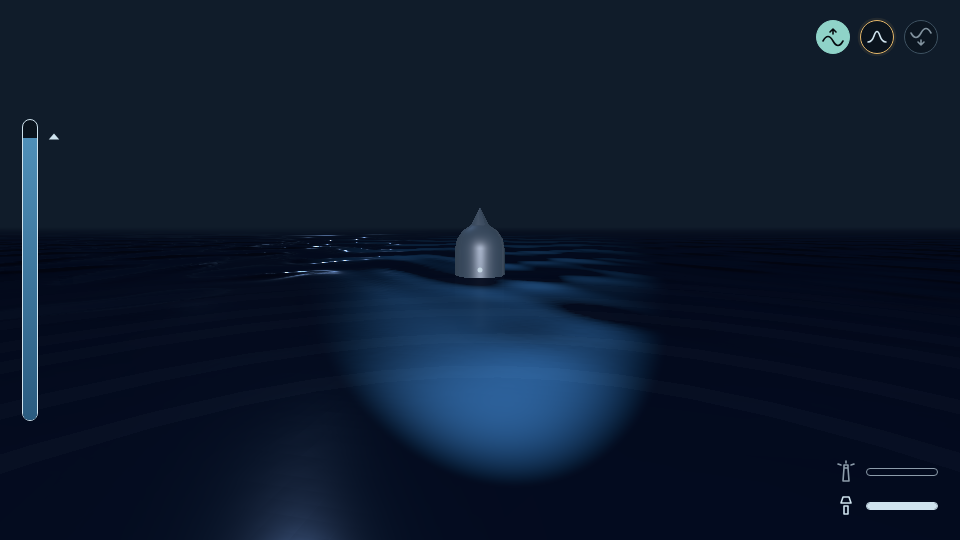
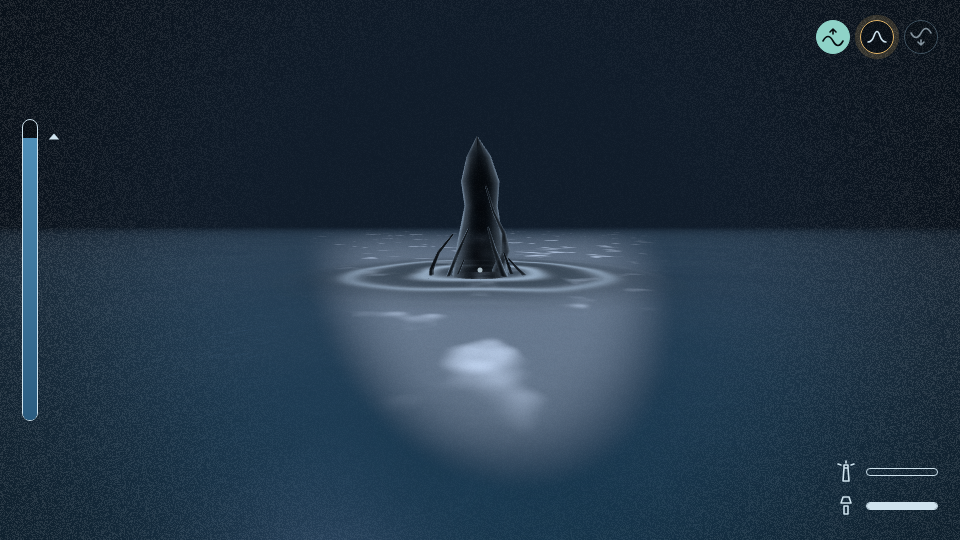
T-030 livrée (ambiance visuelle stylisée, qualité, mesures), rapport archivé ; revue de pôle
Claude-Session: https://claude.ai/code/session_01THVCaC8ywcT3SSRN4VzkzL

diff --git a/docs/tech/revues/REMISE_T-030.md b/docs/tech/revues/REMISE_T-030.md
@@ -1,0 +1,42 @@
+# Rapport de remise : T-030 (résumé archivé par la Coordination)
+
+> Rendu par `graphics-programmer` le 2026-11-24. Archivé pour la revue de pôle et la Boss.
+
+- **Tests** : `npm run all` vert.
+  - 60 tests unitaires (4 nouveaux pour le rendu) ;
+  - 37 contrôles e2e (`run.cjs`) ;
+  - 25 contrôles de rendu (`render.cjs`, nouveau) ;
+  - aucune erreur de console.
+  - Bundle de 623 Kio. Aucune dépendance ni aucun asset ajoutés.
+- **Livré** :
+  - 3 moments d'éclairage (`?moment=night|dawn|day`) ;
+  - eau en shader maison : le niveau suit la simulation, écume au rivage tirée des hauteurs du terrain, reflets ;
+  - sable procédural ;
+  - 48 rochers en un seul appel de dessin ;
+  - brouillard, grain, vignette ;
+  - faisceau lu depuis `lighthouse_beam_period` ;
+  - lampe et faisceau jamais retirés de la scène, pour éviter les recompilations ;
+  - **Laisse** en forme sombre à capuche avec lanières et eau troublée, visible seulement si `threat.lit > 0` ;
+  - 3 niveaux de qualité (`?q=low|medium|high`) ;
+  - écran de mesure (F2 ou `?perf=1`) avec bouton « copier le rapport de performance » ;
+  - captures des tests dans `captures/.tmp/` (ignoré par git) et `npm run captures` pour mettre à jour les captures versionnées.
+- **Parité** : journaux de télémétrie identiques octet pour octet (88 364 octets) sur 4 parties `prudent` : low avec `debug`, medium, high de jour, et high avec changement de niveau en cours de partie. La Laisse change 2,0 à 2,75 % de l'image selon le niveau, et 0 pixel quand elle n'est pas éclairée.
+- **Mesures (SwiftShader, non représentatives d'un vrai GPU)** :
+
+  | Niveau | Cadence moyenne | 95e centile |
+  |---|---|---|
+  | high | 5,4 i/s | 200 ms |
+  | medium | 8,6 i/s | 133 ms |
+  | low | 22,7 i/s | 50 ms |
+
+  - 37 appels de dessin et 54 000 à 62 000 triangles.
+  - Budgets GPU inconnus : seule la porte P1 (F2 sur le PC du propriétaire) les confirmera.
+  - Leviers en cas de saccades : `waterOctaves`, `pixelRatioMax`, anticrénelage.
+- **Réserves** :
+  - rendu non jugé sur un vrai GPU ;
+  - aube et jour à régler (T-007) ;
+  - de près, la Laisse fait un peu « cône à capuche » ;
+  - l'écran de mesure donne des intervalles entre frames, pas des temps GPU ;
+  - `npm run all` dure 10 à 15 minutes dans le cloud ;
+  - l'anticrénelage ne change qu'au chargement.
+- Rapport complet de performance : `docs/tech/PERF_P2.md`. Captures : `game/captures/estran-{nuit,aube,jour}-{high,medium,low}.jpg`, `estran-laisse*.png`.

diff --git a/production/BACKLOG.md b/production/BACKLOG.md
@@ -37,7 +37,7 @@
 | T-027 | Pivot technique web : pile, pipeline autonome et prototype de faisabilité | technical-director | T-026 | VALIDÉ AVEC RÉSERVES |
 | T-028 | Replanification du backlog pour l'essai ESTRAN (voie web, agents seuls) | producer | T-004, T-027 | VALIDÉ AVEC RÉSERVES |
 | T-029 | Noyau jouable : marée, menace, île, boucle de jeu | gameplay-programmer | T-006 | VALIDÉ AVEC RÉSERVES |
-| T-030 | Ambiance visuelle stylisée, niveaux de qualité et mesures de performance | graphics-programmer | T-029 | EN COURS |
+| T-030 | Ambiance visuelle stylisée, niveaux de qualité et mesures de performance | graphics-programmer | T-029 | EN REVUE BOSS |
 | T-031 | Audio procédural : bruit dans l'eau et ambiance | audio-director | T-029 | À FAIRE |
 | T-032 | Tests automatisés et rapport de la porte P2 | qa-lead | T-030, T-031 | À FAIRE |
 | T-033 | Version jouable P2 en un seul fichier HTML, prête à publier | build-engineer | T-032, T-024 | À FAIRE |
@@ -363,7 +363,7 @@
 - **Contexte / références** : `prototypes/estran-poc/` (T-027), `docs/tech/ADR_PIVOT_WEB.md` (pile et langage), `docs/design/GDD.md`. Pas de nouvelles dépendances sans mise à jour de `docs/legal/LICENCES.md` (T-024).
 
 ### T-030 : Ambiance visuelle stylisée, niveaux de qualité et mesures de performance
-- **Assigné à** : `graphics-programmer` · **Revue de pôle** : technical-director · **Dépend de** : T-029 · **Jalon** : Essai · P2 · **Statut** : EN COURS
+- **Assigné à** : `graphics-programmer` · **Revue de pôle** : technical-director · **Dépend de** : T-029 · **Jalon** : Essai · P2 · **Statut** : EN REVUE BOSS
 - **Livrables** : `game/src/render/`, `game/tests/e2e/render.spec.*`, `game/captures/`, `docs/tech/PERF_P2.md`
 - **Critères d'acceptation** :
   - [ ] Eau dont le niveau suit la simulation (marée visible sans HUD), brouillard, faisceau du phare, lampe du joueur, écume et grain, selon le brief d'ambiance de T-006

diff --git a/docs/tech/PERF_P2.md b/docs/tech/PERF_P2.md
@@ -23,7 +23,7 @@ La seule mesure qui compte est celle du propriétaire sur son PC (porte P1) : `?
 
 Lecture : le temps JS du dessin est négligeable aux trois niveaux (moins de 1,2 ms) ; tout le coût est du remplissage logiciel (shader d'eau plein écran, MSAA, résolution). Pour mémoire, le prototype de T-027 faisait 11 à 15 i/s au même format avec une scène plus simple : le niveau haut est donc **plus lourd que le prototype sous SwiftShader**, le niveau bas à peu près équivalent. Ce n'est pas un résultat de GPU.
 
-Fichier brut des mesures : lancer `npm run test:render` ; `captures/.tmp/perf.json` (ignoré par git) contient les trois rapports complets et les comptes de la vue large.
+Fichier brut des mesures : lancer `npm run test:render` ; `captures/.tmp/perf.json` (ignoré par git ; `captures/perf.json` après `npm run captures`) contient les trois rapports complets et les comptes de la vue large.
 
 ### Comptes indépendants du GPU (vue large de nuit : phare, faisceau, rochers, eau dans le champ)
 
